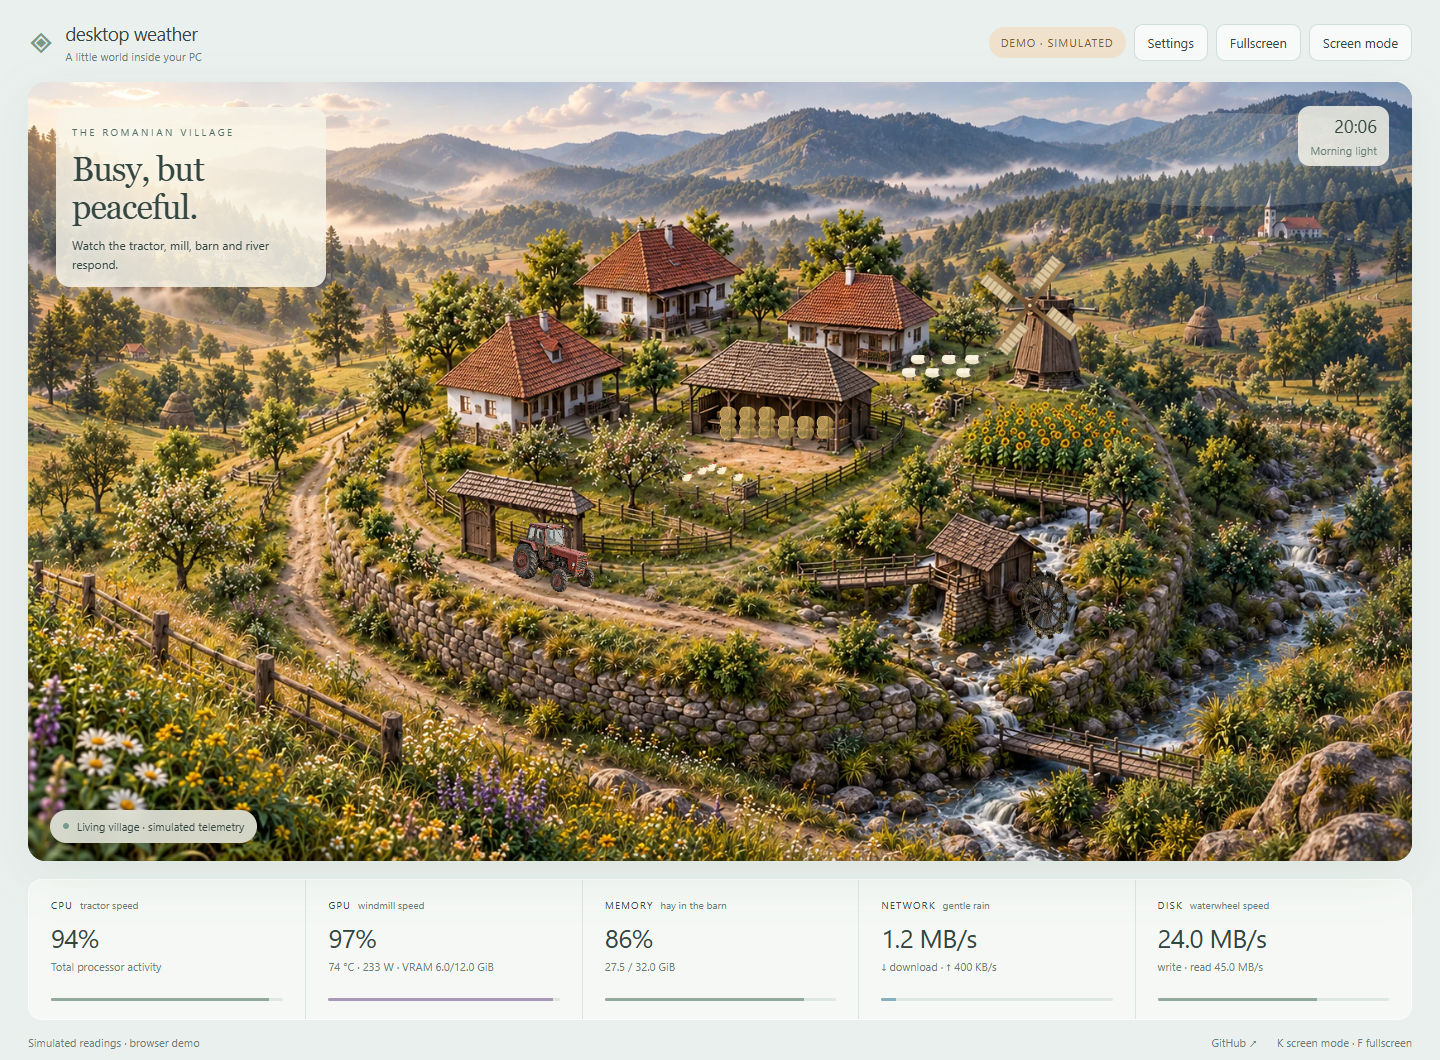
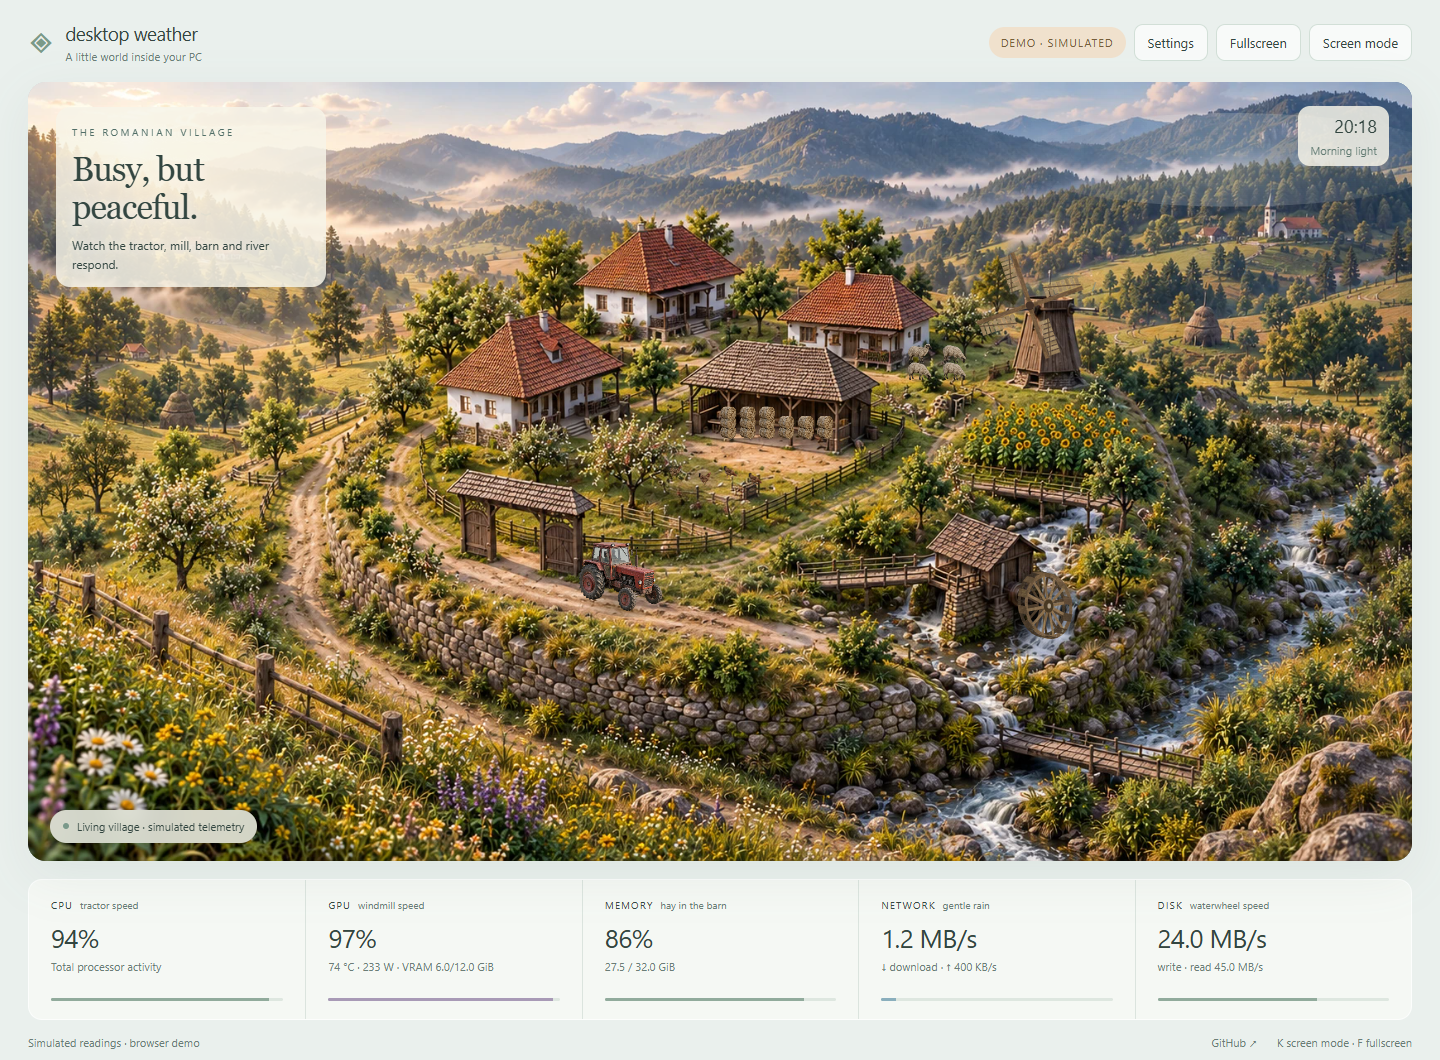
Improve rural scene realism and smooth motion at 60 FPS

diff --git a/public/app.js b/public/app.js
@@ -7,13 +7,13 @@ let saved = {};
 try { saved = JSON.parse(localStorage.getItem('desktop-weather-settings') || '{}'); } catch { }
 const settings = {
   mode: params.get('demo') || (local ? 'live' : 'idle'),
-  light: saved.light || 'morning', quality: saved.quality || 'eco',
+  light: saved.light || 'morning', quality: saved.quality === 'still' ? 'still' : saved.motionRevision === 3 ? saved.quality || 'smooth' : 'smooth',
   rainScale: Number(saved.rainScale) || 25, gpuIndex: Number(saved.gpuIndex) || 0,
   showMetrics: saved.showMetrics !== false
 };
 if (!['live', 'idle', 'game', 'render', 'download'].includes(settings.mode)) settings.mode = 'idle';
 if (!['morning', 'dusk', 'night', 'auto'].includes(settings.light)) settings.light = 'morning';
-if (!['eco', 'balanced', 'still'].includes(settings.quality)) settings.quality = 'eco';
+if (!['eco', 'balanced', 'smooth', 'still'].includes(settings.quality)) settings.quality = 'smooth';
 settings.rainScale = clamp(settings.rainScale, 1, 100);
 let data = null, connection = 'connecting', lastReceived = 0, activity = sceneActivity(null), target = activity;
 let inScreenMode = params.get('screen') === '1', fetchBusy = false;
@@ -24,10 +24,13 @@ const tractorImage = new Image();
 tractorImage.src = new URL('./assets/tractor-real.webp', import.meta.url).href;
 const waterwheelImage = new Image();
 waterwheelImage.src = new URL('./assets/waterwheel-real.webp', import.meta.url).href;
-const rural = createRuralRenderer(context, scenePoint, () => Math.min(width / 1672, height / 941), tractorImage, waterwheelImage, $('village'));
+const hensImage = new Image(), farmImage = new Image();
+hensImage.src = new URL('./assets/hens-real.webp', import.meta.url).href;
+farmImage.src = new URL('./assets/farm-real.webp', import.meta.url).href;
+const rural = createRuralRenderer(context, scenePoint, () => Math.min(width / 1672, height / 941), tractorImage, waterwheelImage, $('village'), hensImage, farmImage);
 
 function persist() {
-  try { localStorage.setItem('desktop-weather-settings', JSON.stringify({ light: settings.light, quality: settings.quality, rainScale: settings.rainScale, gpuIndex: settings.gpuIndex, showMetrics: settings.showMetrics })); } catch { }
+  try { localStorage.setItem('desktop-weather-settings', JSON.stringify({ motionRevision: 3, light: settings.light, quality: settings.quality, rainScale: settings.rainScale, gpuIndex: settings.gpuIndex, showMetrics: settings.showMetrics })); } catch { }
 }
 function updateSettings() {
   $('mode').value = settings.mode; $('light').value = settings.light;
@@ -129,10 +132,10 @@ function draw(now) {
   requestAnimationFrame(draw);
   if (document.hidden) return;
   const still = settings.quality === 'still' || media.matches;
-  const interval = still ? 1000 : settings.quality === 'eco' ? 1000 / 15 : 1000 / 30;
-  if (now - lastDraw < interval) return;
+  const interval = still ? 1000 : settings.quality === 'smooth' ? 1000 / 60 : 1000 / 30;
+  if (now - lastDraw < interval - 1) return;
   const dt = Math.min(.15, (now - lastDraw) / 1000 || .03); lastDraw = now; frameCount++;
-  for (const key of Object.keys(activity)) activity[key] += (target[key] - activity[key]) * (still ? 1 : .12);
+  for (const key of Object.keys(activity)) activity[key] += (target[key] - activity[key]) * (still ? 1 : 1-Math.exp(-dt*2.8));
   context.clearRect(0, 0, width, height);
   rural.render({activity,dt,time:still ? 0 : now / 1000,still,night:scene.dataset.light === 'night',width,height});
 }

diff --git a/public/index.html b/public/index.html
@@ -36,7 +36,7 @@
       <div class="settings-heading"><h2>Make it your little world</h2><button id="close-settings" aria-label="Close settings">✕</button></div>
       <label>Data source<select id="mode"><option value="live">Live · this computer</option><option value="idle">Demo · quiet morning</option><option value="game">Demo · gaming</option><option value="render">Demo · rendering</option><option value="download">Demo · downloading</option></select></label>
       <label>Light<select id="light"><option value="morning">Morning</option><option value="dusk">Golden hour</option><option value="night">Moonlight</option><option value="auto">Follow the local clock</option></select></label>
-      <label>Animation<select id="quality"><option value="eco">Eco · 15 FPS</option><option value="balanced">Balanced · 30 FPS</option><option value="still">Still · no motion</option></select></label>
+      <label>Animation<select id="quality"><option value="smooth">Smooth · 60 FPS</option><option value="eco">Eco · 30 FPS</option><option value="balanced">Balanced · 30 FPS</option><option value="still">Still · no motion</option></select></label>
       <label>Rain at <span><output id="rain-output">25</output> MB/s<input id="rain-scale" type="range" min="1" max="100" value="25"></span></label>
       <label>GPU<select id="gpu-device"><option value="0">GPU 1 · awaiting readings</option></select></label>
       <label class="check"><input id="show-metrics" type="checkbox" checked> Show readings in screen mode</label>
@@ -48,3 +48,4 @@
   <script type="module" src="app.js"></script>
 </body>
 </html>
+

diff --git a/README.md b/README.md
@@ -8,7 +8,7 @@ A lively circular Romanian village that responds to CPU, GPU, memory, network an
 
 [Try the browser demo](https://samoxis.github.io/desktop-weather/?demo=idle) · [Telemetry explained](docs/telemetry.md) · [Research & decisions](docs/research.md) · [Contribute a scene](CONTRIBUTING.md)
 
-> **v0.2 is an early, working prototype:** an illustrated background with animated layers, not an explorable 3D city. Browser demos use clearly labeled simulated values. Live readings require the local companion.
+> **v0.3 is an early, working prototype:** an illustrated background with animated layers, not an explorable 3D city. Browser demos use clearly labeled simulated values. Live readings require the local companion.
 
 ## What moves?
 
@@ -22,7 +22,7 @@ A lively circular Romanian village that responds to CPU, GPU, memory, network an
 
 Birds, grazing sheep and wandering chickens add ambient life; these are decorative and do not represent sensors. Tractor and wheel motion stop at zero or unavailable load.
 
-The tractor follows a smooth road curve and brakes before changing direction. The river animation is mapped to the visible water channels, leaving bridges and banks intact. Both are layered 2D effects, not a physical vehicle or fluid simulation.
+The tractor follows a smooth road curve and brakes before slowly reversing, keeping the same cab orientation. The river animation is mapped to the visible water channels, leaving bridges and banks intact. Both are layered 2D effects, not a physical vehicle or fluid simulation.
 
 Morning, golden-hour and moonlight appearances are selectable. Day and night use matching cinematic Romanian countryside artwork; the exterior is filled with hills, fields, forest and a stream. Automatic lighting follows your local clock, without location lookup. Usage drives the scene; **it is not a temperature gauge or thermal alarm**. The GPU temperature is shown separately.
 
@@ -41,7 +41,7 @@ Open **http://127.0.0.1:4783**. On Windows you can also double-click `Start-Desk
 Move the browser onto the sensor screen. Use **F11** for the browser's fullscreen mode, then **K** to hide app controls. Press **K** again or use the faint exit button to restore them. The app's Fullscreen button is also available where supported.
 
 - **Settings → Data source** switches between live readings and four simulated scenarios.
-- **Settings → Animation** offers Eco (15 FPS cap), Balanced (30 FPS cap) and Still.
+- **Settings → Animation** offers Smooth (60 FPS cap, default), Eco (30 FPS cap with lower resolution), Balanced (30 FPS cap) and Still.
 - **Settings → GPU** selects an NVIDIA GPU on multi-GPU systems.
 - **Settings → Show readings in screen mode** lets you keep only the village.
 - **Settings → Rain at** calibrates the visual response to your connection speed. This is an animation scale, not a measurement of your connection's maximum speed.
@@ -73,7 +73,7 @@ Network defaults to the busiest measured adapter, rather than adding physical an
 
 Any screen recognized as a monitor by the OS can show the browser: HDMI, DisplayPort or a USB graphics display. Layouts were checked at 800×480, 480×800 and 1920×480, as well as regular desktop and small mobile widths. This is browser-layout validation, not a physical screen test.
 
-USB-only smart screens with proprietary protocols and cooler/AIO LCDs are **not supported in v0.2**. They need device-specific adapters. The full circular scene stays visible at all aspect ratios; portrait and ultrawide screens use a softened landscape extension around the illustration. Dedicated compositions remain on the roadmap.
+USB-only smart screens with proprietary protocols and cooler/AIO LCDs are **not supported in v0.3**. They need device-specific adapters. The full circular scene stays visible at all aspect ratios; portrait and ultrawide screens use a softened landscape extension around the illustration. Dedicated compositions remain on the roadmap.
 
 ## Local by design
 
@@ -103,3 +103,4 @@ No dependency installation or build step. `public/` is also the complete static 
 ## Credits & license
 
 Code is MIT licensed. The village background was created for this project using OpenAI image generation; it is AI-generated artwork, not a live 3D render. The included artwork is offered under the same MIT terms. No third-party project code or artwork was copied. Research references and the related projects are listed in [research notes](docs/research.md).
+

diff --git a/docs/art-direction.md b/docs/art-direction.md
@@ -18,8 +18,17 @@ Canvas adds a contact shadow, CPU-driven travel, slight body movement, travel-de
 
 ## Motion and river revision
 
-The road uses a sampled smooth spline with distance-based travel. Acceleration, approach braking and a pause before reversal replace constant-speed ping-pong movement. Wheel-face rotation follows distance travelled. The sprite mirrors when changing direction at rest; this is still a layered 2D animation rather than a full 3D steering model.
+The road uses a sampled smooth spline with distance-based travel, limited to the front road where the camera angle matches the tractor. Acceleration, approach braking and a pause before reversing replace constant-speed ping-pong movement. The cab stays upright with no mirrored turn. The tractor backs up slowly. Wheel-face rotation and projected tread grooves follow travel using a 21-artwork-pixel rear rolling radius. This is still a layered 2D animation rather than a full 3D steering model.
 
-`public/assets/waterwheel-real.webp` is a new transparent photographic sprite, generated with the built-in OpenAI image generation tool and converted to WebP preserving alpha. Prompt: authentic old Romanian undershot mill wheel, straight-on circular centered face, weathered wet oak rim and radial spokes, iron bolts, paddle ends, transparent spoke gaps, natural upper-left lighting, no river/building/shadow/text. Canvas rotates it within a fixed perspective projection at the mill's axle.
+`public/assets/waterwheel-real.webp` provides the wood grain texture, generated with the built-in OpenAI image generation tool and converted to WebP preserving alpha. Prompt: authentic old Romanian undershot mill wheel, straight-on circular centered face, weathered wet oak rim and radial spokes, iron bolts, paddle ends, transparent spoke gaps, natural upper-left lighting, no river/building/shadow/text. The current renderer projects centered rim/spoke/paddle geometry with fixed depth and axle. It no longer rotates the perspective photograph. Windmill blades also use textured wooden slats.
 
 The river uses hand-mapped visible channel sections, with gaps around bridges. Two blended offset layers move the existing water texture within narrow channel masks; downstream foam strokes and wheel drips share the waterwheel phase. Disk I/O drives the common visual speed. Still/reduced-motion freezes it. This is an artistic telemetry mapping, not fluid simulation or actual river measurement.
+
+## Farm assets and frame pacing
+
+The built-in image generation tool produced two new transparent atlases, converted to WebP preserving alpha:
+
+- `public/assets/hens-real.webp`: a 3-by-2 sheet of one realistic brown farm hen, consistent slightly elevated camera, four walking poses, standing and pecking, articulated orange legs, detailed feathers, natural warm lighting. No cartoon styling, scenery, captions or grid lines. Walking frames blend; the bird walks briefly, then rests or pecks.
+- `public/assets/farm-real.webp`: three equal cells, a realistic cream-wool sheep grazing, the same sheep with head raised, and a rolled dry hay bale with straw texture, consistent elevated camera and warm lighting. Transparent background without captions or scenery. Replaces geometric sheep and bales.
+
+Smooth mode targets 60 FPS by default. Eco and Balanced cap at 30 FPS; Still and reduced-motion stop motion. Telemetry easing uses elapsed time instead of a frame-dependent fixed fraction. Earlier stored animation preferences migrate to Smooth once, except Still; subsequently selected preferences persist. No external rendering libraries or network asset dependencies were added.

diff --git a/docs/validation.md b/docs/validation.md
@@ -1,18 +1,19 @@
-# v0.2 validation
+# v0.3 validation
 
 Local validation on Windows, 2026-10-03:
 
 - JavaScript syntax checks passed.
-- All 15 Node.js tests passed: core telemetry/security checks plus renderer motion, still mode, missing-data behavior, sprite loading/night shading, acceleration and stopping before reversal, distance-based wheel rotation and synchronized water/wheel phase.
+- All 16 Node.js tests passed: core telemetry/security checks plus renderer motion, still mode, missing-data behavior, sprite loading/night shading, acceleration and stopping before reversal, distance-based wheel rotation and synchronized water/wheel phase.
 - Live CPU and memory readings verified through the local HTTP endpoint and browser.
 - Live Windows network/disk counter deltas verified; these were not forced with a benchmark or stress test.
 - Existing NVIDIA driver queried successfully for utilization, temperature, used/total VRAM, power and fan percentage. No driver or HWiNFO configuration changes.
 - Headless Microsoft Edge interaction checks passed at 1440×1060, 800×480, 480×800, 1920×480 and 320×640 without horizontal overflow.
 - Demo source switching, lighting, screen-mode keyboard recovery and GPU-driven scene state verified.
-- Eco mode drew 31 frames during a 2.1-second observation, consistent with the 15 FPS cap. This is a frame-count check, not a full GPU/CPU/memory benchmark.
+- Smooth mode drew 127 frames during a 2.1-second observation, consistent with the 60 FPS cap. This is a frame-count check, not a full GPU/CPU/memory benchmark.
 - Simulated collector HTTP failure changed the source to unavailable and cleared the readings; no silent demo fallback.
 - Browser checks verified both realistic tractor and waterwheel sprites loaded, tractor wheel-face rotation and synchronized river/waterwheel phase, the separate night artwork, and frozen machinery/river in Still mode. No unhandled browser script errors.
 
 The README image and night preview are screenshots of the actual browser prototype using labeled simulated readings. Day/night backgrounds are AI-generated raster artwork with procedural Canvas animation overlays; this is not a live 3D game. The full village remains visible while a softened landscape extension fills unusual screen ratios.
 
 Not physically tested: internal/USB displays, AMD/Intel GPUs, multiple NVIDIA GPUs, other operating systems, thermal adapters, native packaging, Windows auto-start. The GitHub CI matrix checks core code on Windows and Linux but does not establish hardware support.
+
